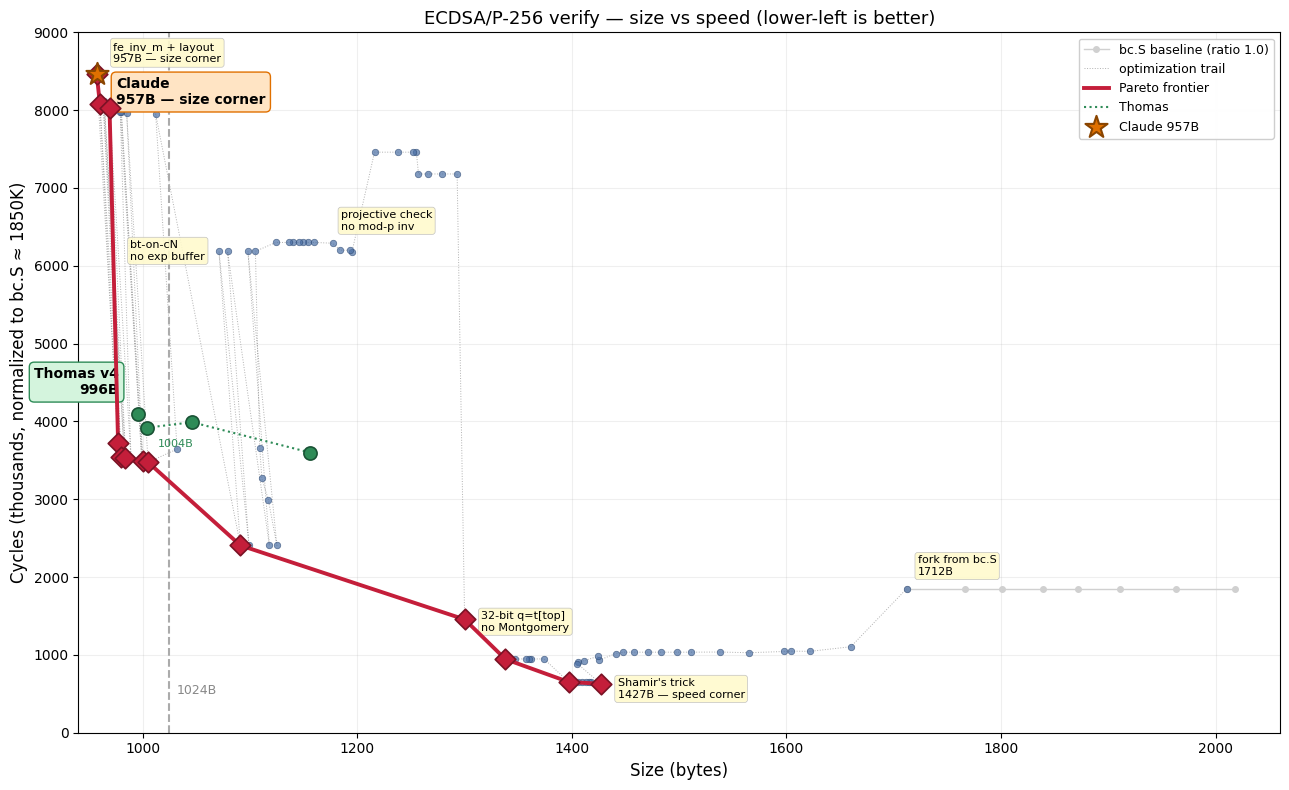
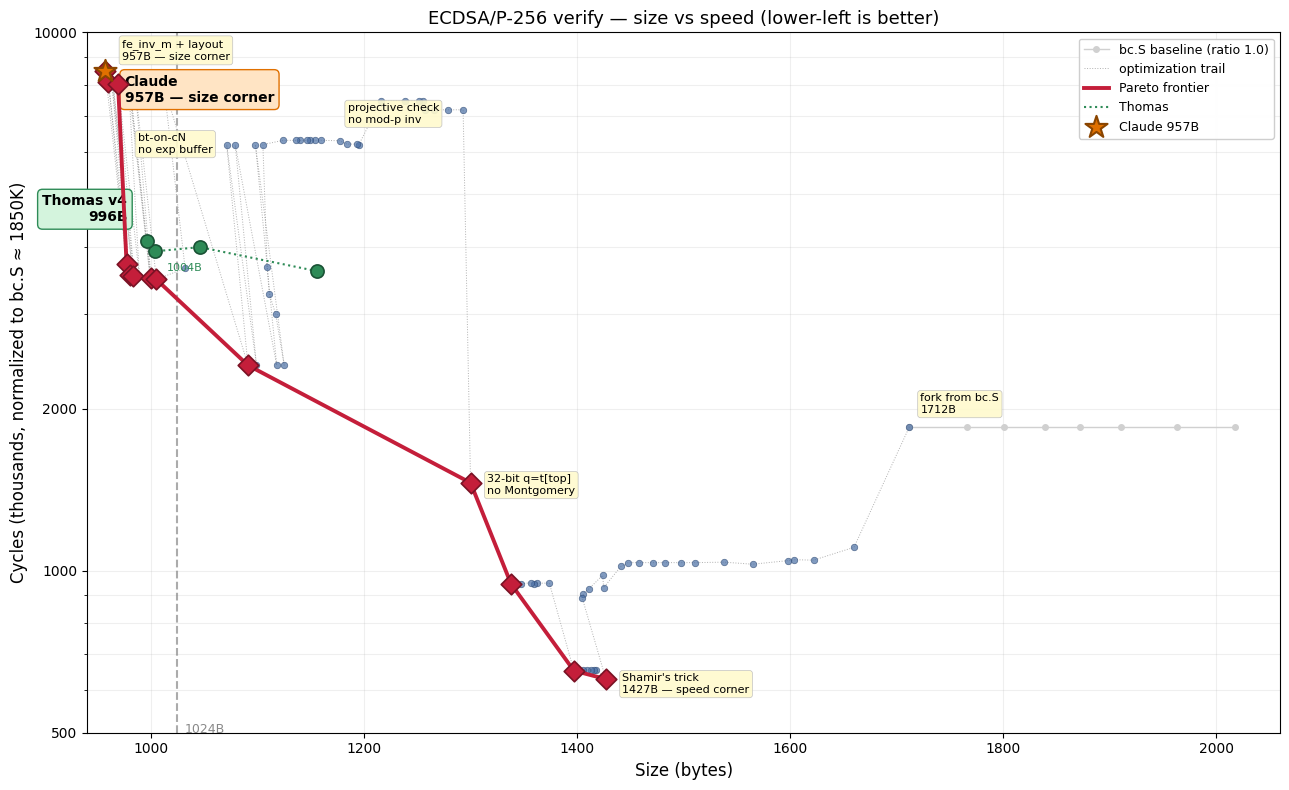
Chart: log-y scale — cycles span 13:1, regimes now separable
Linear y crushed everything below 2M into a thin band and made the
tiny.S grind (3.5M → 8.5M) a wall at the top.  Log-y:
  - Pareto frontier reads as a proper convex curve
  - fast.S (650K-1000K), bc.S (1850K), tiny.S (3.5M+) regimes separate
  - Thomas's 4 points visibly sit INSIDE the frontier
Size stays linear (only 2:1 range — log would compress the action).

diff --git a/docs/plot_history.py b/docs/plot_history.py
@@ -177,10 +177,20 @@ ax.set_ylabel('Cycles (thousands, normalized to bc.S ≈ 1850K)', fontsize=12)
 ax.set_title('ECDSA/P-256 verify — size vs speed (lower-left is better)',
              fontsize=13)
 ax.legend(loc='upper right', framealpha=0.95, fontsize=9)
-ax.grid(True, alpha=0.2)
+ax.grid(True, alpha=0.2, which='both')
 ax.set_axisbelow(True)
+# Log-y: cycles span 629K → 8470K (~13:1).  Log compresses the tiny.S
+# speed-for-size grind (6.2M → 8.5M) into a visible band instead of
+# a wall at the top, and separates the fast.S cluster (650K-1000K)
+# from the bc.S baseline (1850K).  Size stays linear — only 2:1 range.
+ax.set_yscale('log')
 ax.set_xlim(940, 2060)
-ax.set_ylim(0, 9000)
+ax.set_ylim(500, 10000)
+# Clean up the log axis: major ticks at nice values, no scientific notation.
+from matplotlib.ticker import ScalarFormatter, LogLocator
+ax.yaxis.set_major_locator(LogLocator(base=10, subs=[1, 2, 5]))
+ax.yaxis.set_major_formatter(ScalarFormatter())
+ax.yaxis.set_minor_formatter(lambda x, pos: '')
 
 plt.tight_layout()
 plt.savefig('docs/progress.png', dpi=100, bbox_inches='tight')
